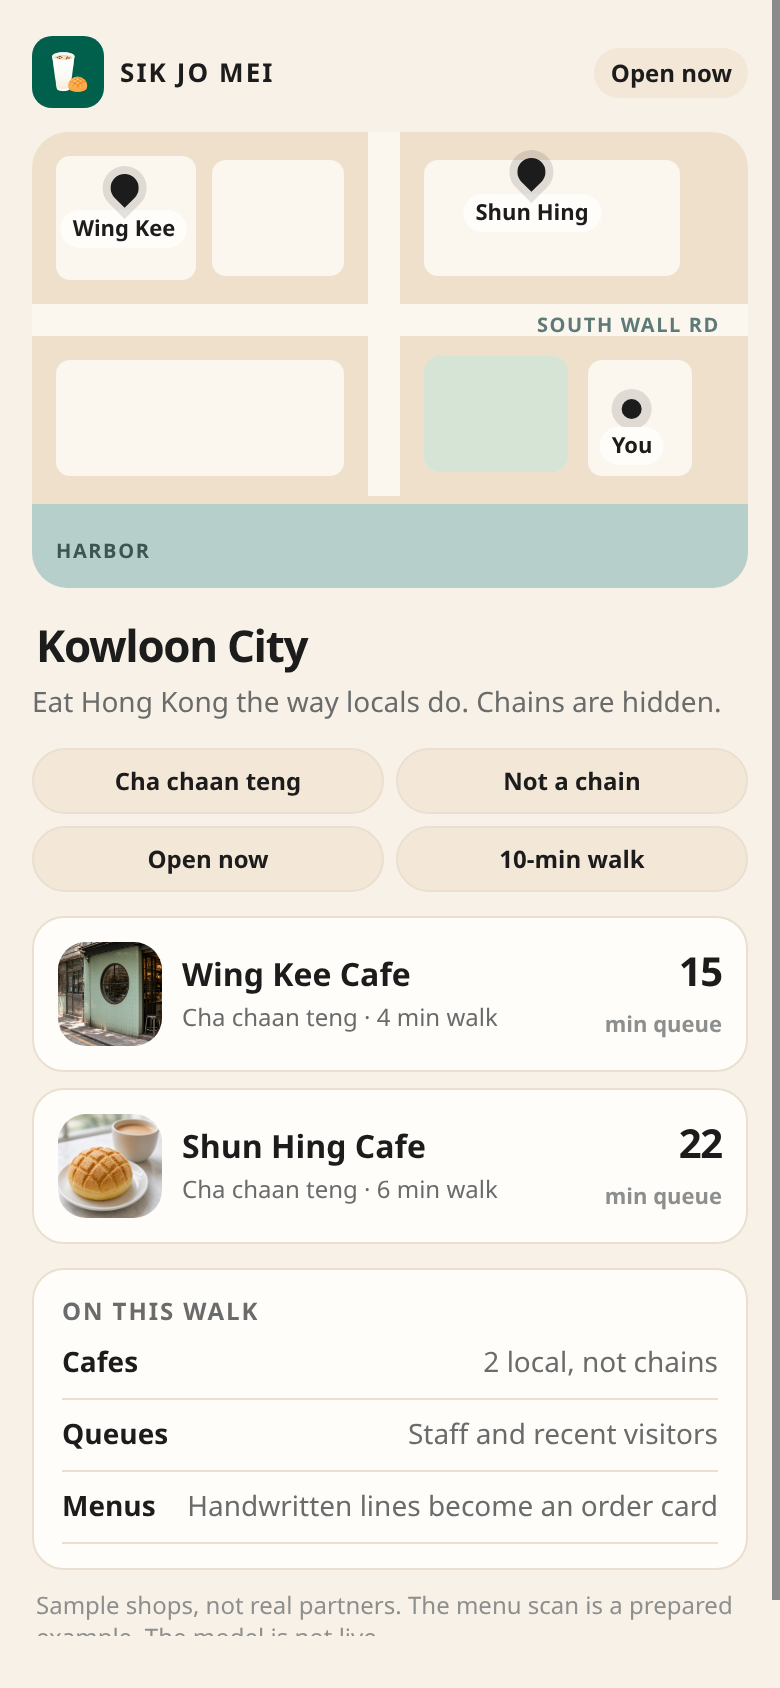
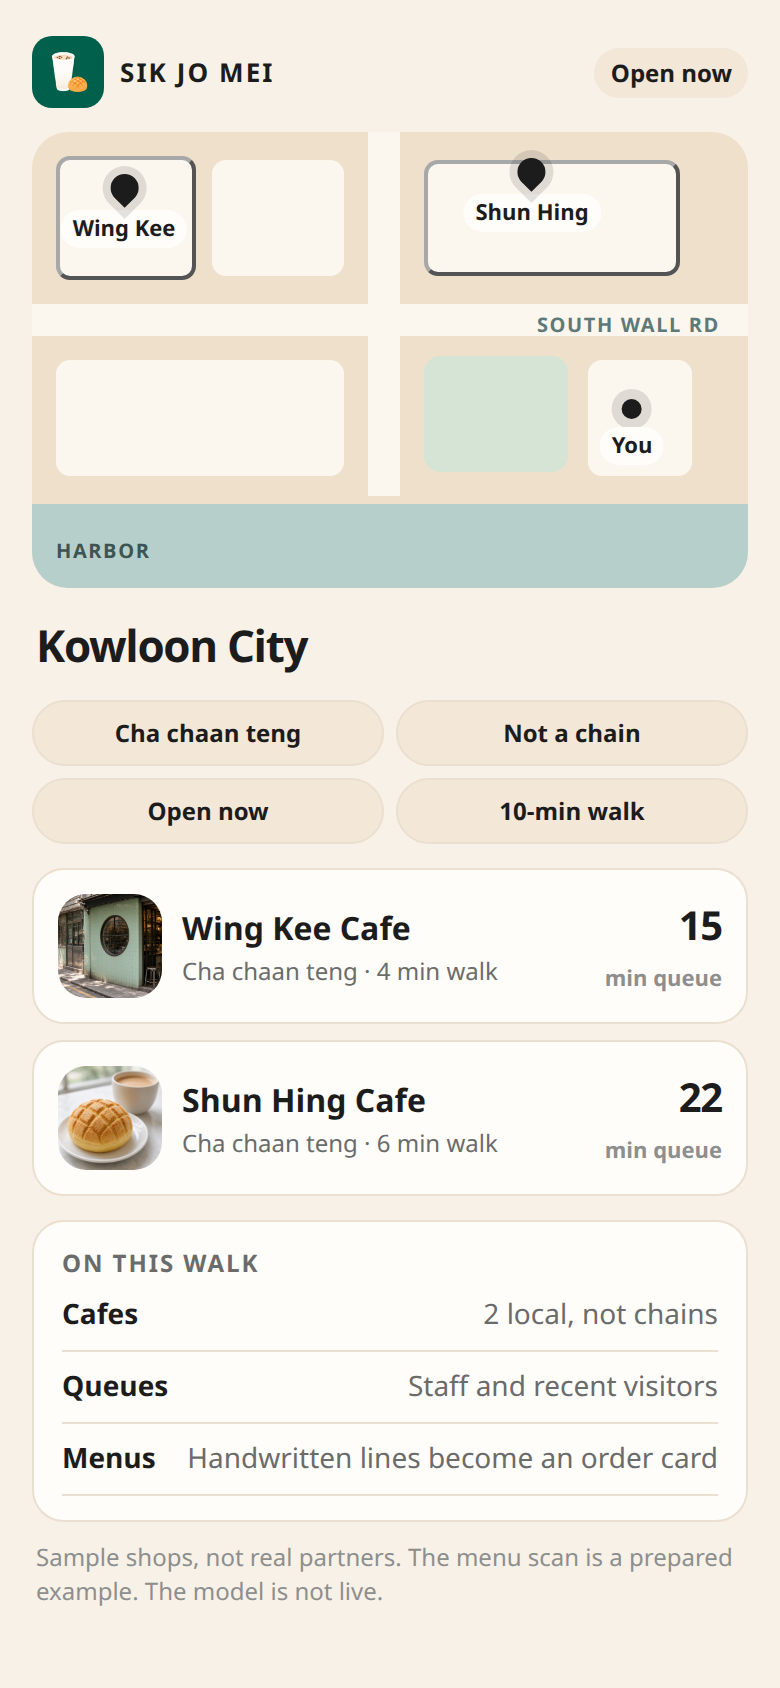
Clean the map and cafe pages for the demo.
Remove the presenter cue panel and the map tagline. Tapping a cafe on the map opens it, and the cafe page is only the queue, address, and dishes.

diff --git a/index.html b/index.html
@@ -139,6 +139,8 @@
       background: var(--block);
       border-radius: 7px;
     }
+    button.block { cursor: pointer; }
+    button.block:hover { background: #fff; }
     .b1 { left: 12px; top: 12px; width: 70px; height: 62px; }
     .b2 { left: 90px; top: 14px; width: 66px; height: 58px; }
     .b3 { left: 196px; top: 14px; width: 128px; height: 58px; }
@@ -503,7 +505,7 @@
       padding: 16px 16px 14px;
     }
     .queue-row { display: flex; align-items: flex-end; justify-content: space-between; gap: 12px; }
-    .minutes { font-size: 64px; line-height: 0.85; letter-spacing: -0.05em; font-weight: 750; color: var(--sun-deep); }
+    .minutes { font-size: 40px; line-height: 0.9; letter-spacing: -0.04em; font-weight: 750; color: var(--ink); }
     .minutes small { display: block; margin-top: 6px; font-size: 14px; letter-spacing: 0; color: var(--muted); font-weight: 650; }
     .fresh {
       text-align: right;
@@ -522,16 +524,6 @@
       font-weight: 700;
     }
     .note { margin-top: 12px; color: var(--muted); font-size: 14px; line-height: 1.45; }
-    .aim {
-      margin-top: 14px;
-      background: var(--cream);
-      border: 1px dashed #f0c2a8;
-      border-radius: 16px;
-      padding: 16px;
-      text-align: center;
-    }
-    .aim .han { font-size: 28px; letter-spacing: 0.14em; }
-    .aim p { margin-top: 6px; color: var(--muted); font-size: 13px; }
     .steps-use { margin-top: 14px; display: flex; flex-direction: column; gap: 8px; }
     .steps-use div {
       display: grid;
@@ -663,41 +655,12 @@
       border: 1px solid var(--line);
     }
 
-    .rail { width: 300px; flex: none; }
-    .rail h2 { font-size: 18px; margin-bottom: 6px; }
-    .rail .lead { color: var(--muted); font-size: 14px; line-height: 1.45; margin-bottom: 14px; }
-    .steps { list-style: none; padding: 0; margin: 0; display: flex; flex-direction: column; gap: 8px; }
-    .steps button {
-      width: 100%;
-      text-align: left;
-      background: transparent;
-      border: 1px solid transparent;
-      border-radius: 10px;
-      padding: 8px 10px;
-    }
-    .steps button strong { display: block; font-size: 14px; }
-    .steps button span { display: block; color: var(--muted); font-size: 13px; line-height: 1.35; margin-top: 2px; }
-    .steps button[aria-current="step"] { background: var(--card); border-color: var(--line); }
-    .rail .tools { display: flex; gap: 8px; margin-top: 16px; }
-    .rail .tools button {
-      font-size: 13px;
-      font-weight: 750;
-      border-radius: 999px;
-      padding: 7px 12px;
-      border: 1px solid #c5d0d6;
-      background: var(--card);
-    }
-
-    body.cues-off .rail { display: none; }
     body.frame { background: var(--phone); }
     body.frame .stage { padding: 0; min-height: 100vh; }
     body.frame .phone { width: 100vw; height: 100vh; max-height: none; border: 0; border-radius: 0; }
-    body.frame .rail { display: none; }
 
     @media (max-width: 820px) {
-      .stage { flex-direction: column; }
       .phone { width: min(390px, 100%); height: 740px; }
-      .rail { width: min(390px, 100%); }
     }
   </style>
 </head>
@@ -707,15 +670,6 @@
       <div class="screen" id="screen"></div>
       <div class="dock" id="dock"></div>
     </div>
-    <aside class="rail">
-      <h2>75-second demo</h2>
-      <p class="lead">Start on the cover, then tap the phone in this order. One short line at each step, then hand off to D. There is no paywall.</p>
-      <ol class="steps" id="steps"></ol>
-      <div class="tools">
-        <button type="button" id="hide-cues">Hide cues</button>
-        <button type="button" id="restart">Start again</button>
-      </div>
-    </aside>
   </div>
   <script>
     const shops = {
@@ -729,7 +683,12 @@
         hours: "7:00–18:00",
         queue: "15",
         updated: "Updated 8 minutes ago",
-        fresh: "Fresh · 8 min ago"
+        fresh: "8 min ago",
+        orders: [
+          ["菠蘿油", "Pineapple bun with butter"],
+          ["凍檸茶", "Iced lemon tea"],
+          ["絲襪奶茶", "Milk tea"]
+        ]
       },
       shun: {
         name: "Shun Hing Cafe",
@@ -741,25 +700,20 @@
         hours: "7:30–17:30",
         queue: "22",
         updated: "Updated 11 minutes ago",
-        fresh: "11 min ago"
+        fresh: "11 min ago",
+        orders: [
+          ["菠蘿油", "Pineapple bun with butter"],
+          ["凍檸茶", "Iced lemon tea"],
+          ["絲襪奶茶", "Milk tea"]
+        ]
       }
     };
-
-    const steps = [
-      { id: "cover", title: "Cover", line: "食咗未. Open the map when you are ready." },
-      { id: "map", title: "1 · Map", line: "Kowloon City. Cha chaan teng, not a chain." },
-      { id: "shop", title: "2 · Queue", line: "About fifteen minutes, updated eight minutes ago." },
-      { id: "menu", title: "3 · Menu", line: "Not a word-for-word translation." },
-      { id: "card", title: "4 · Order card", line: "Turn it to the waiter." },
-      { id: "list", title: "5 · List", line: "Add it. Share. How it makes money is D." }
-    ];
 
     const params = new URLSearchParams(location.search);
     const state = {
       screen: "cover",
       shopId: "wing",
       shared: false,
-      cues: params.get("cues") !== "0",
       frame: params.get("frame") === "1",
       lang: params.get("lang") === "zh" ? "zh" : "en",
       share: {
@@ -785,7 +739,6 @@
 
     const screenEl = document.getElementById("screen");
     const dockEl = document.getElementById("dock");
-    const stepsEl = document.getElementById("steps");
 
     function go(screen, shopId) {
       state.screen = screen;
@@ -886,7 +839,16 @@
       const city = el("div", "city");
       city.append(el("div", "road road-h"), el("div", "road road-v"), el("div", "park"), el("div", "water"));
       city.append(el("div", "road-label", "South Wall Rd"), el("div", "water-label", "Harbor"));
-      ["b1", "b2", "b3", "b4", "b5"].forEach((name) => city.append(el("div", "block " + name)));
+      ["b2", "b4", "b5"].forEach((name) => city.append(el("div", "block " + name)));
+      const wingBlock = el("button", "block b1");
+      wingBlock.type = "button";
+      wingBlock.setAttribute("aria-label", "Open Wing Kee Cafe");
+      wingBlock.addEventListener("click", () => go("shop", "wing"));
+      const shunBlock = el("button", "block b3");
+      shunBlock.type = "button";
+      shunBlock.setAttribute("aria-label", "Open Shun Hing Cafe");
+      shunBlock.addEventListener("click", () => go("shop", "shun"));
+      city.append(wingBlock, shunBlock);
       const wing = el("button", "pin p-wing on");
       wing.type = "button";
       wing.innerHTML = "<i></i><span>Wing Kee</span>";
@@ -901,7 +863,6 @@
       screenEl.append(city);
 
       screenEl.append(el("h1", "sheet-title", "Kowloon City"));
-      screenEl.append(el("p", "sub", "Eat Hong Kong the way locals do. Chains are hidden."));
       const chips = el("div", "chips");
       ["Cha chaan teng", "Not a chain", "Open now", "10-min walk"].forEach((label) => {
         chips.append(el("span", "chip", label));
@@ -951,21 +912,11 @@
       [item.kind, "Not a chain", "Open now"].forEach((label) => facts.append(el("span", "fact", label)));
       card.append(row, facts);
       screenEl.append(card);
-      screenEl.append(el("p", "note", item.updated + ". Staff update this, and so do people who just arrived. If the number is old, we show that."));
-      const aim = el("div", "aim");
-      aim.innerHTML = '<div class="han">飛沙走奶</div>';
-      aim.append(el("p", "", "Point the camera at one handwritten line."));
-      screenEl.append(aim);
       const details = el("div", "panel");
       details.append(meta("Address", item.address));
-      details.append(meta("Hours", item.hours + " · sample"));
+      details.append(meta("Hours", item.hours));
       screenEl.append(details);
-      screenEl.append(el("p", "note", "Afternoon tea and the cold-drink price are not entered for this shop. Ask the waiter."));
-      screenEl.append(section("People here also order", [
-        ["菠蘿油", "Pineapple bun with butter"],
-        ["凍檸茶", "Iced lemon tea"],
-        ["絲襪奶茶", "Milk tea, pulled through a cloth bag"]
-      ]));
+      screenEl.append(section("Also ordered here", item.orders));
       dockEl.className = "dock has-rule";
       dockEl.innerHTML = "";
       dockEl.append(primary("Scan the menu", () => {
@@ -1272,21 +1223,7 @@
       dockEl.append(again);
     }
 
-    function renderSteps() {
-      stepsEl.innerHTML = "";
-      const current = state.screen === "reading" ? "menu" : state.screen;
-      steps.forEach((step) => {
-        const button = el("button");
-        button.type = "button";
-        if (step.id === current) button.setAttribute("aria-current", "step");
-        button.append(el("strong", "", step.title), el("span", "", step.line));
-        button.addEventListener("click", () => go(step.id, "wing"));
-        stepsEl.append(button);
-      });
-    }
-
     function render() {
-      document.body.classList.toggle("cues-off", !state.cues);
       document.body.classList.toggle("frame", state.frame);
       document.querySelector(".phone").classList.toggle("is-cover", state.screen === "cover");
       if (state.screen === "cover") renderCover();
@@ -1296,19 +1233,11 @@
       else if (state.screen === "menu") renderMenu();
       else if (state.screen === "card") renderCard();
       else renderList();
-      renderSteps();
     }
-
-    document.getElementById("hide-cues").addEventListener("click", () => {
-      state.cues = !state.cues;
-      document.getElementById("hide-cues").textContent = state.cues ? "Hide cues" : "Show cues";
-      render();
-    });
-    document.getElementById("restart").addEventListener("click", () => go("cover", "wing"));
 
     const initial = params.get("screen");
     if (["cover", "map", "shop", "menu", "card", "list"].includes(initial)) state.screen = initial;
-    if (!state.cues) document.getElementById("hide-cues").textContent = "Show cues";
+    if (params.get("shop") === "shun") state.shopId = "shun";
     render();
   </script>
 </body>
